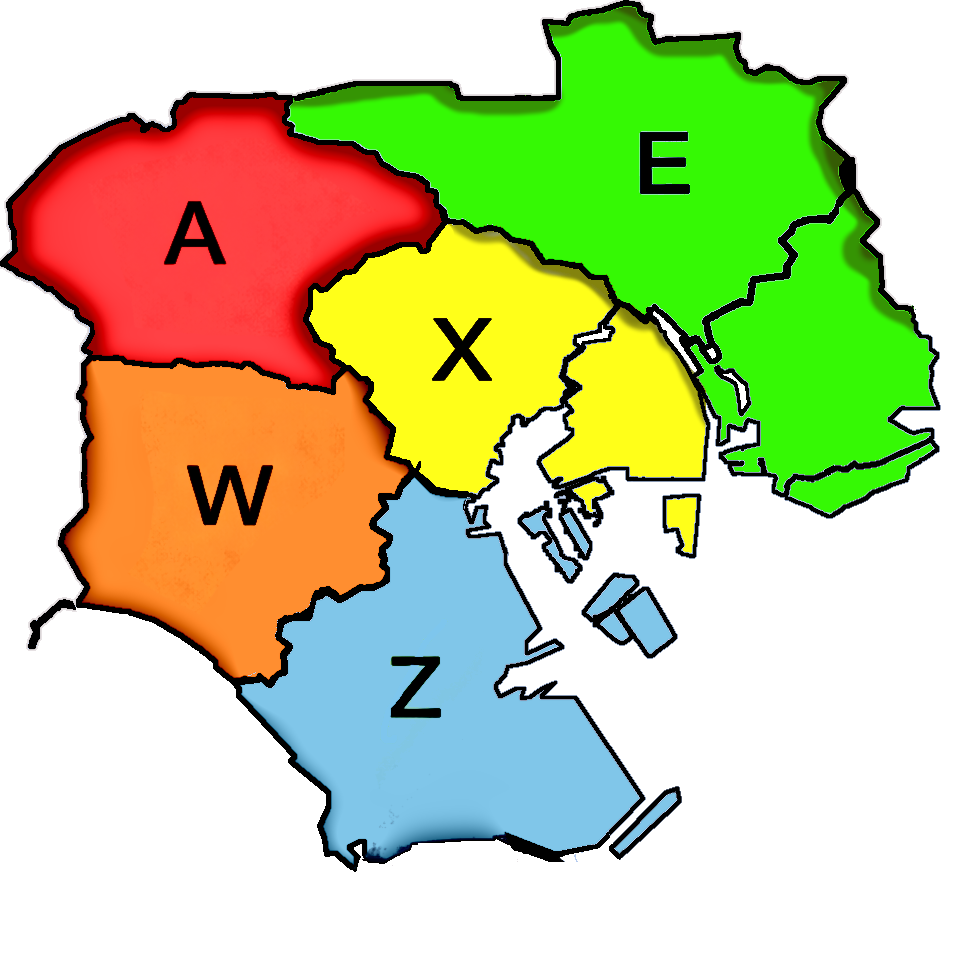
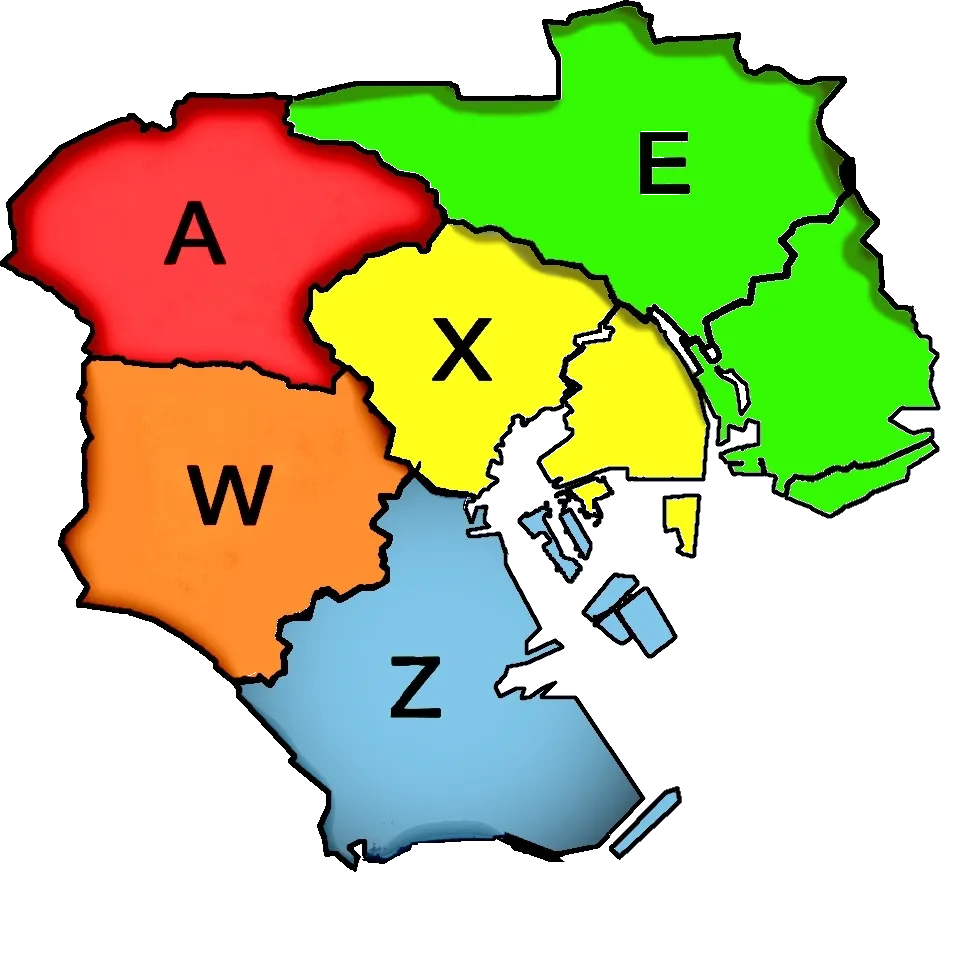
chore: nouvelle carte

diff --git a/frontend/app/test/page.tsx b/frontend/app/test/page.tsx
@@ -148,6 +148,24 @@ export default function ZoneMap({
           />
         )}
       </div>
+
+      <div className="relative z-45 flex flex-wrap justify-center gap-3 pt-6">
+        {[
+          { level: 1, color: "bg-green-500 hover:bg-green-400" },
+          { level: 2, color: "bg-lime-500 hover:bg-lime-400" },
+          { level: 3, color: "bg-yellow-500 hover:bg-yellow-400" },
+          { level: 4, color: "bg-orange-500 hover:bg-orange-400" },
+          { level: 5, color: "bg-red-600 hover:bg-red-500" },
+        ].map(({ level, color }) => (
+          <button
+            key={level}
+            type="button"
+            className={`rounded-lg px-5 py-2 font-semibold text-white shadow-md transition-colors ${color}`}
+          >
+            Niveau {level}
+          </button>
+        ))}
+      </div>
     </main>
   );
 }
